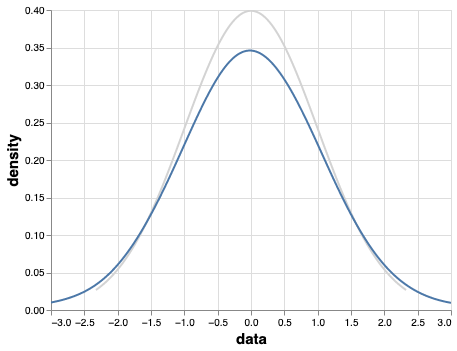
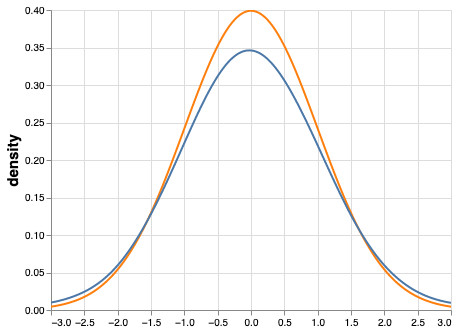
addressing comment https://github.com/scipy-conference/scipy_proceedings/pull/717#discussion_r893657783. Improved colors, fixed truncated line for notmal dist, and removed X axis labels

diff --git a/papers/allan_campopiano/paper.rst b/papers/allan_campopiano/paper.rst
@@ -56,7 +56,7 @@ normal distribution is 1 but the variance of the contaminated normal is 10.9!
    :scale: 50%
    :align: center
 
-   Standard normal (grey) and contaminated normal (blue). :label:`contnorm`
+   Standard normal (orange) and contaminated normal (blue). :label:`contnorm`
 
 Moreover, confidence intervals, based on the sample mean, will be over three times longer
 when sampling is from the contaminated curve compared to the normal curve. The point
@@ -82,7 +82,7 @@ As you can see, the assumption that T follows a t distribution does not hold.
    :scale: 50%
    :align: center
 
-   Assumed t distribution (grey) and actual t distribution (blue). :label:`tcurve`
+   Actual t distribution (orange) and assumed t distribution (blue). :label:`tcurve`
 
 One conclusion that can be drawn from this is as follows: When sampling is from skewed
 distributions (e.g., lognormal), the t-test leads to increased false positive rates (Type I Error).
